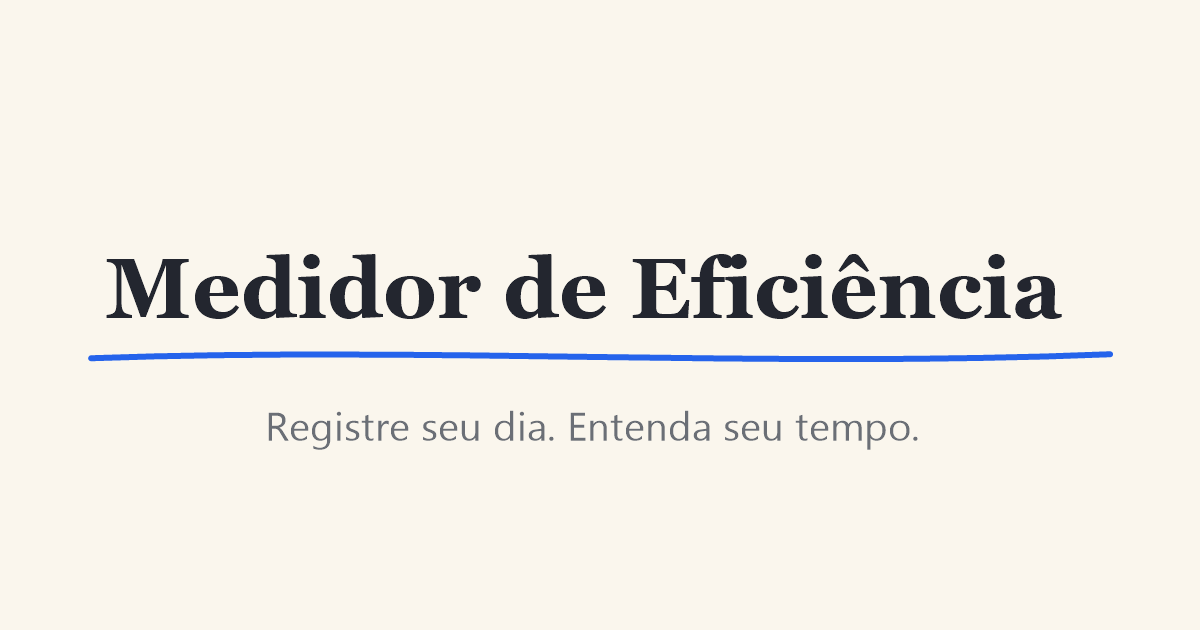
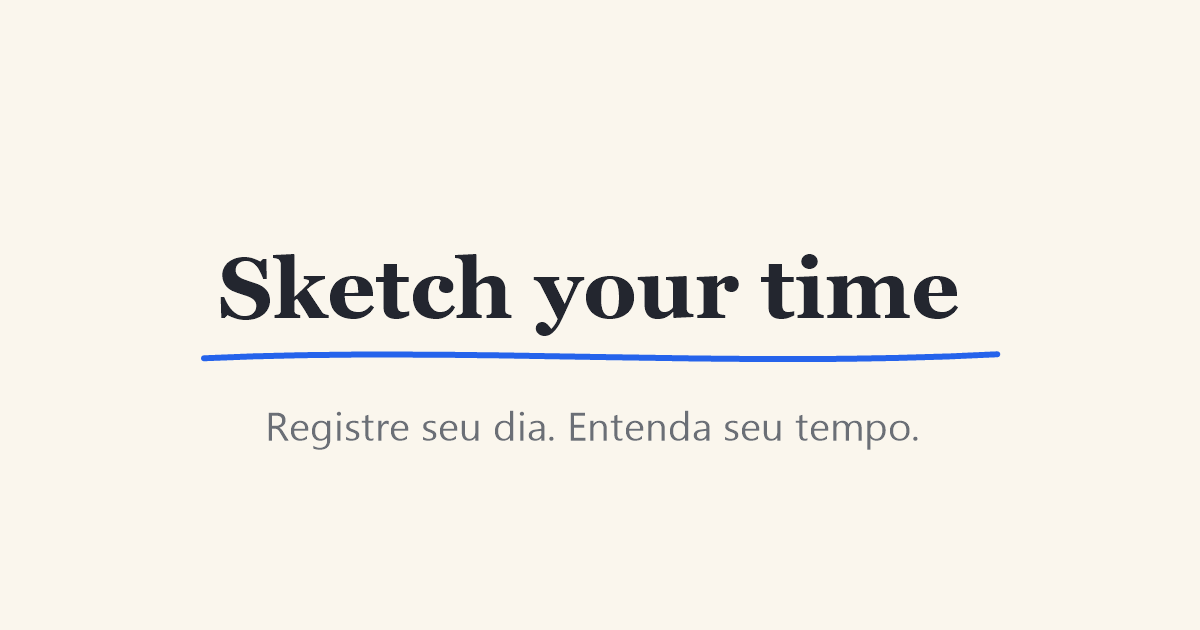
chore: renomeia a aplicação para "Sketch your time"
Atualiza o nome exibido em títulos de página, meta tags (og:site_name,
twitter:title), topbar (marca curta "Sketch"), e-mail de redefinição de
senha, log de boot, imagem OG e documentação (README, CLAUDE.md, OpenAPI,
guia de OAuth). Mantém identificadores internos (nome do pacote npm, banco
de dados, diretório do repo) como estavam — fora do escopo de um rename de
marca.

diff --git a/src/services/EmailService.ts b/src/services/EmailService.ts
@@ -41,7 +41,7 @@ class EmailServiceImpl {
       body: JSON.stringify({
         sender: parseSender(env.SMTP_FROM!),
         to: [{ email: to }],
-        subject: 'Redefinição de senha — Medidor de Eficiência',
+        subject: 'Redefinição de senha — Sketch your time',
         textContent: `Recebemos um pedido para redefinir sua senha. Acesse o link abaixo para escolher uma nova senha (válido por 1 hora):\n\n${resetUrl}\n\nSe você não pediu isso, ignore este e-mail.`,
       }),
       signal: AbortSignal.timeout(10_000),

diff --git a/public/css/tokens.css b/public/css/tokens.css
@@ -1,4 +1,4 @@
-/* Tokens de identidade visual — Medidor de Eficiência ("Caderno de Esboço")
+/* Tokens de identidade visual — Sketch your time ("Caderno de Esboço")
    Fonte: docs/design/kit-ui (design system oficial do produto). */
 @import url('https://fonts.googleapis.com/css2?family=Patrick+Hand&family=Architects+Daughter&family=Kalam:wght@400;700&display=swap');
 

diff --git a/public/css/styles.css b/public/css/styles.css
@@ -1,4 +1,4 @@
-/* Medidor de Eficiência — folha de estilos da aplicação (RNF03: responsivo, mobile-first)
+/* Sketch your time — folha de estilos da aplicação (RNF03: responsivo, mobile-first)
    Identidade visual "Caderno de Esboço": ver docs/design/kit-ui/ e seção
    "Identidade visual" do CLAUDE.md. */
 @import url('./reset.css');

diff --git a/src/server.ts b/src/server.ts
@@ -17,5 +17,5 @@ process.on('unhandledRejection', (reason) => {
 const app = createApp();
 
 app.listen(env.PORT, () => {
-  console.log(`✅ Medidor de Eficiência rodando em http://localhost:${env.PORT}`);
+  console.log(`✅ Sketch your time rodando em http://localhost:${env.PORT}`);
 });

diff --git a/public/css/components.css b/public/css/components.css
@@ -1,4 +1,4 @@
-/* Componentes de UI — Medidor de Eficiência ("Caderno de Esboço")
+/* Componentes de UI — Sketch your time ("Caderno de Esboço")
    Fonte: docs/design/kit-ui/components.css (classes portadas 1:1 do design system). */
 
 body {

diff --git a/docs/google-oauth-setup.md b/docs/google-oauth-setup.md
@@ -33,7 +33,7 @@ GOOGLE_CALLBACK_URL=http://localhost:3000/auth/google/callback
    - Menu lateral → **APIs e serviços** → **Credenciais**
    - **+ Criar credenciais** → **ID do cliente OAuth**
    - Tipo de aplicativo: **Aplicativo da Web**
-   - Nome: algo identificável (ex.: `Medidor de Eficiência - Web`)
+   - Nome: algo identificável (ex.: `Sketch your time - Web`)
    - **Origens JavaScript autorizadas**: URL base da aplicação, sem path
      - Dev: `http://localhost:3000`
      - Produção: `https://seu-dominio.com`

diff --git a/README.md b/README.md
@@ -1,4 +1,4 @@
-# ⏱ Medidor de Eficiência — MVP
+# ⏱ Sketch your time — MVP
 
 Sistema web para registro de atividades diárias e análise de eficiência pessoal.
 **Stack:** Node.js 20+ · TypeScript · Express · EJS (views server-side) · Prisma · PostgreSQL.

diff --git a/CLAUDE.md b/CLAUDE.md
@@ -1,4 +1,4 @@
-# CLAUDE.md — Medidor de Eficiência
+# CLAUDE.md — Sketch your time
 
 Contexto para o Claude Code. Leia também `medidor_eficiencia.md` (documentação completa do MVP) antes de tarefas de arquitetura ou novas features.
 
